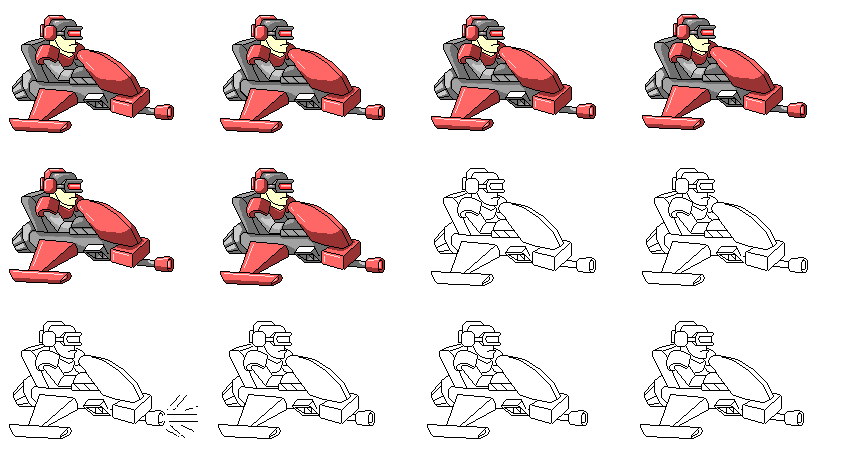
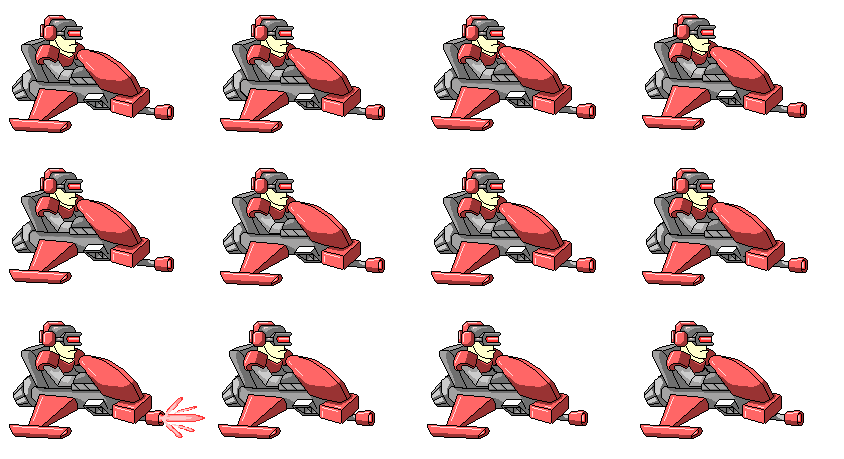
* Updated Empire units sprites. * Updated AI Waiting & End Turn buttons sprites.

diff --git a/trunk/MobileClient/www/Assets/Game.css b/trunk/MobileClient/www/Assets/Game.css
@@ -98,7 +98,7 @@
 {
 	position: relative;
 	top: 10px;
-	left: 6px;
+	left: 2px;
 }
 
 
@@ -115,20 +115,13 @@
 	right: 0px;
 	bottom: 0px;
 	
-	background-image: url('UI/Elements/End_turn_HUD.png');
+	background-image: url('UI/Elements/End_turn_HUD-hourglass.png');
 	width: 107px;
 	height: 74px;
 	
 	color: white;
 	text-align: center;
 	text-transform: uppercase;
-}
-
-#BtnAIWaiting span
-{
-	position: relative;
-	top: 10px;
-	left: 6px;
 }
 
 #AIToolbarDebug

diff --git a/trunk/MobileClient/www/index.html b/trunk/MobileClient/www/index.html
@@ -245,7 +245,7 @@
 				<div id="AIToolbar" class="in_game_toolbar">
 					<div id="LbAIName"></div>
 					<div id="BtnAIFastForward"><span>&gt;&gt;</span></div>
-					<div id="BtnAIWaiting"><span>W8</span></div>
+					<div id="BtnAIWaiting"></div>
 
 					<div id="AIToolbarDebug">
 						<button id="BtnAISlower">-</button>
